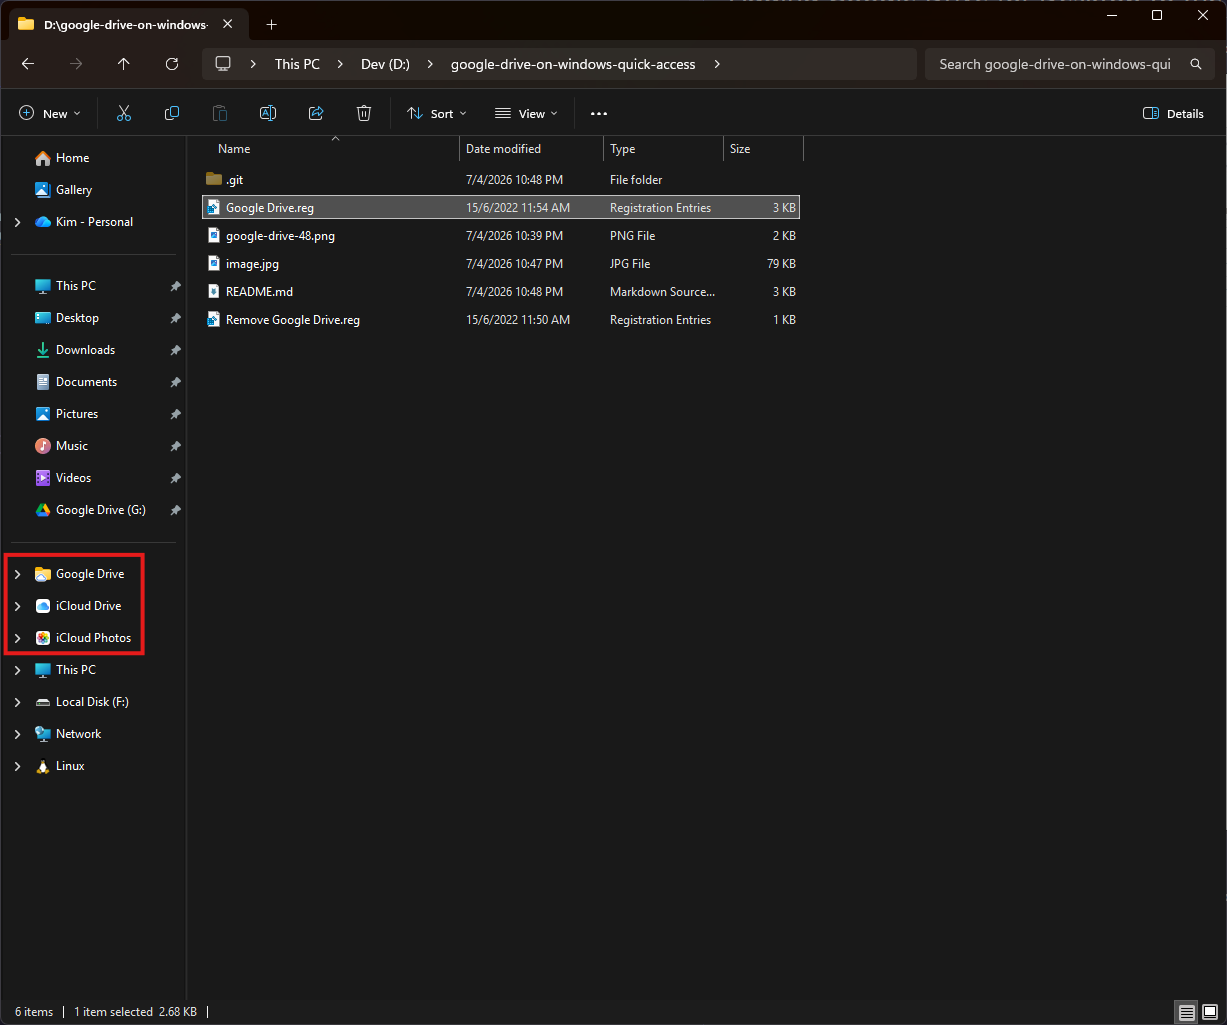
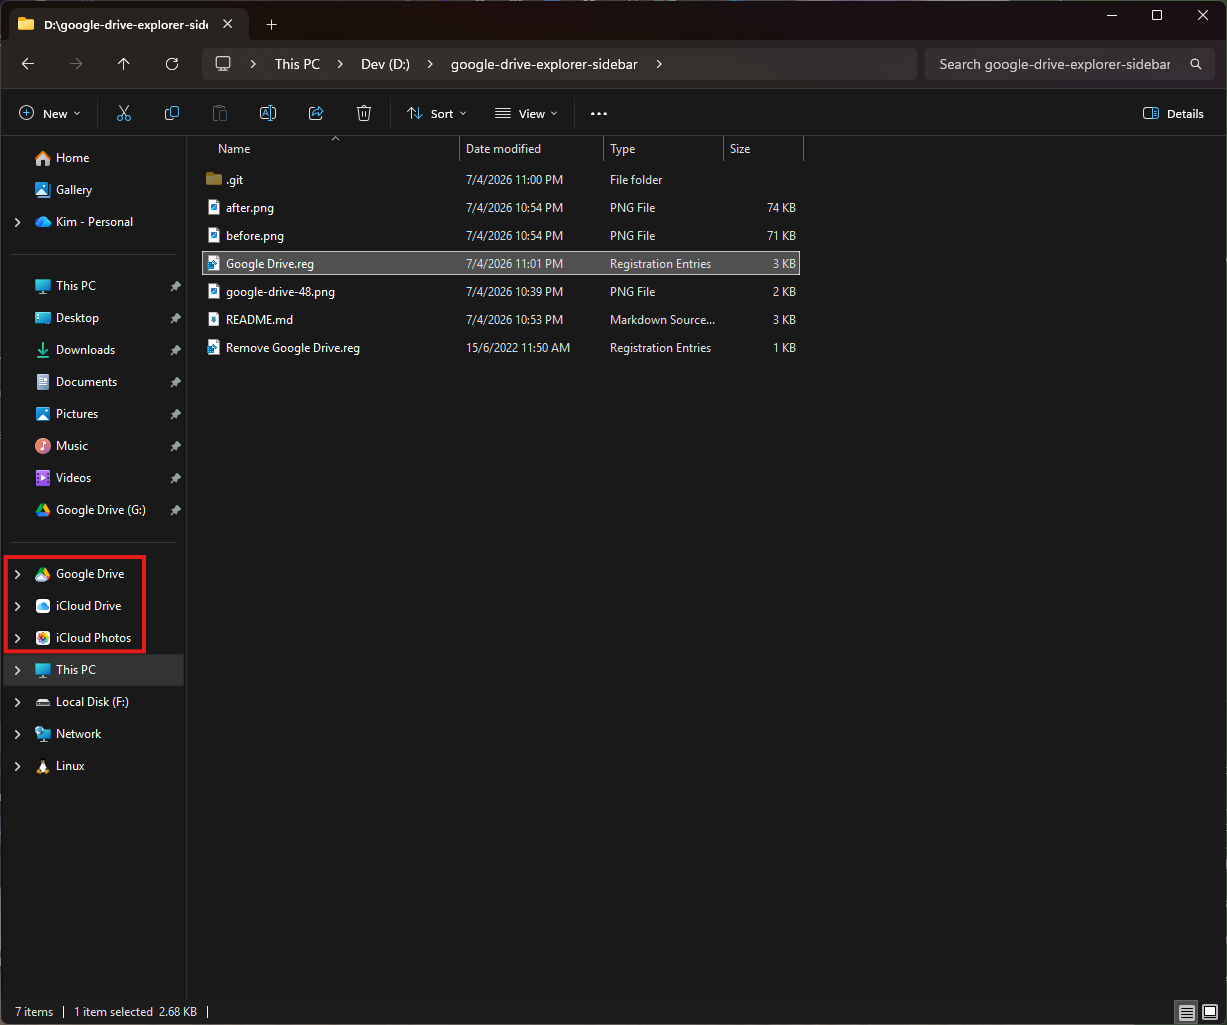
update version

diff --git a/README.md b/README.md
@@ -1,38 +1,118 @@
-# Notice
+# 📁 Add Google Drive to Windows Explorer Sidebar
 
-This only works for [**Google Drive for Desktop**](https://support.google.com/drive/answer/7329379) users, NOT Backup and Sync users.
+By default, apps like OneDrive and Dropbox appear in the Windows Explorer sidebar as pinned shortcuts. However, **Google Drive for Desktop** does not provide this feature out of the box.
 
-Backup and Sync users should use the original work by [**blog.kimmohito.com/google-drive-explorer-sidebar**](http://blog.kimmohito.com/google-drive-explorer-sidebar/)
+This guide shows you how to manually add Google Drive to the Explorer sidebar for quick access.
 
-# Adding Google Drive for Desktop to the Windows Explorer sidebar
+## ⚠️ Important Notes
 
-For those of you who use OneDrive or Dropbox you may have noticed that they create non-removable shortcuts in the Explorer sidebar. If you are also a Google Drive user you&#39;ll notice that Google Drive doesn&#39;t create the same shortcuts.
+* ✅ This works **only with** Google Drive for Desktop
+* ❌ **Not compatible with Backup and Sync** (deprecated)
 
-![Image of first print](before.png)
+👉 If you're using Backup and Sync, refer to the original guide:
+[http://blog.kimmohito.com/google-drive-explorer-sidebar/](http://blog.kimmohito.com/google-drive-explorer-sidebar/)
 
-Following the steps below you can create the same shortcut for Google Drive.
+---
 
-**Disclaimer: This was only tested on Windows 11 Professional, Windows 10 Professional and Windows 8.1 Professional. Ensure you backup your registry before making any changes.**
+## 🖼️ Before & After
 
-## Installation
+**Before:**
 
-- Download this repository.
-- Open  **GoogleDrive.reg**  in your favourite text editor.
-- When making edits below, you must use \\\ instead of \\
-- Update any references of @="C:\\\Program Files\\\Google\\\Drive File Stream\\\49.0.9.0\\\GoogleDriveFS.exe,0" to wherever you've installed Google Drive, keeping ,0 at the end of the drive path
-  - ALTERNATELY - To stop the drive icon reverting to default when Google Drive File Stream updates, create a backup copy of GoogleDriveFS.exe in a safe location (e.g C:\Backups) and update any references of @="C:\\\Program Files\\\Google\\\Drive File Stream\\\49.0.9.0\\\GoogleDriveFS.exe,0" to this location instead. This is because this folder is deleted occasionally when Google updates their software.
-- Update any references of "TargetFolderPath"="G:\\\My Drive" to wherever you have configured Google Drive to store files
-- Save all changes
-- Double-click  **GoogleDrive.reg**  to install and ensure you click yes when prompted.
+![Before](before.png)
 
-## Results
+**After:**
 
-![Image of first print](after.png)
+![After](after.png)
 
+## ⚠️ Disclaimer
 
-You should now see Google Drive pinned to the Explorer sidebar.
+* Tested on:
+  * Windows 11 Professional
+  * Windows 10 Professional
+  * Windows 8.1 Professional
+* You are modifying the **Windows Registry**
+* Always back up your registry before proceeding
 
-## Credits
-Original work by [**luke.digital**](http://luke.digital/adding-google-drive-to-the-explorer-sidebar/)
+## 🚀 Installation Steps
 
-Google Drive for Desktop update by [**Stratium**](https://github.com/Stratium/)
+### 1. Download the Repository
+
+Clone or download this repository to your local machine.
+
+### 2. Edit the Registry File
+
+Open `GoogleDrive.reg` using any text editor.
+
+#### Important formatting rule:
+
+* Use `\\\` (triple backslashes), NOT `\\`
+
+### 3. Update Google Drive Executable Path
+
+Find and replace:
+
+```
+@="C:\\\Program Files\\\Google\\\Drive File Stream\\\123.0.1.0\\\GoogleDriveFS.exe,0"
+```
+
+Replace with your actual installation path.
+
+#### 💡 Recommended (to prevent breaking after updates):
+
+Google Drive updates may delete versioned folders.
+
+Instead:
+
+1. Copy `GoogleDriveFS.exe` to a stable location (e.g. `C:\Backups`)
+2. Update path to:
+
+```
+@="C:\\\Backups\\\GoogleDriveFS.exe,0"
+```
+
+---
+
+### 4. Update Your Drive Path
+
+Find:
+
+```
+"TargetFolderPath"="G:\\\My Drive"
+```
+
+👉 Replace with your actual Google Drive folder location.
+
+---
+
+### 5. Apply the Registry File
+
+* Save your changes
+* Double-click `GoogleDrive.reg`
+* Click **Yes** when prompted
+
+---
+
+## ✅ Result
+
+After installation, you should see **Google Drive pinned** in the Windows Explorer sidebar — just like OneDrive or Dropbox.
+
+---
+
+## 🙌 Credits
+
+* Original method: [http://luke.digital/adding-google-drive-to-the-explorer-sidebar/](http://luke.digital/adding-google-drive-to-the-explorer-sidebar/)
+* Updated for Drive for Desktop: [https://github.com/Stratium/](https://github.com/Stratium/)
+
+---
+
+## 💡 Tips
+
+* If the icon disappears after updates → recheck your `.exe` path
+* Restart Windows Explorer if changes don’t show immediately
+
+---
+
+If you want, I can also:
+
+* turn this into a **GitHub-ready markdown (with badges + styling)**
+* or make a **one-click `.reg` generator script** so users don’t edit manually 🚀